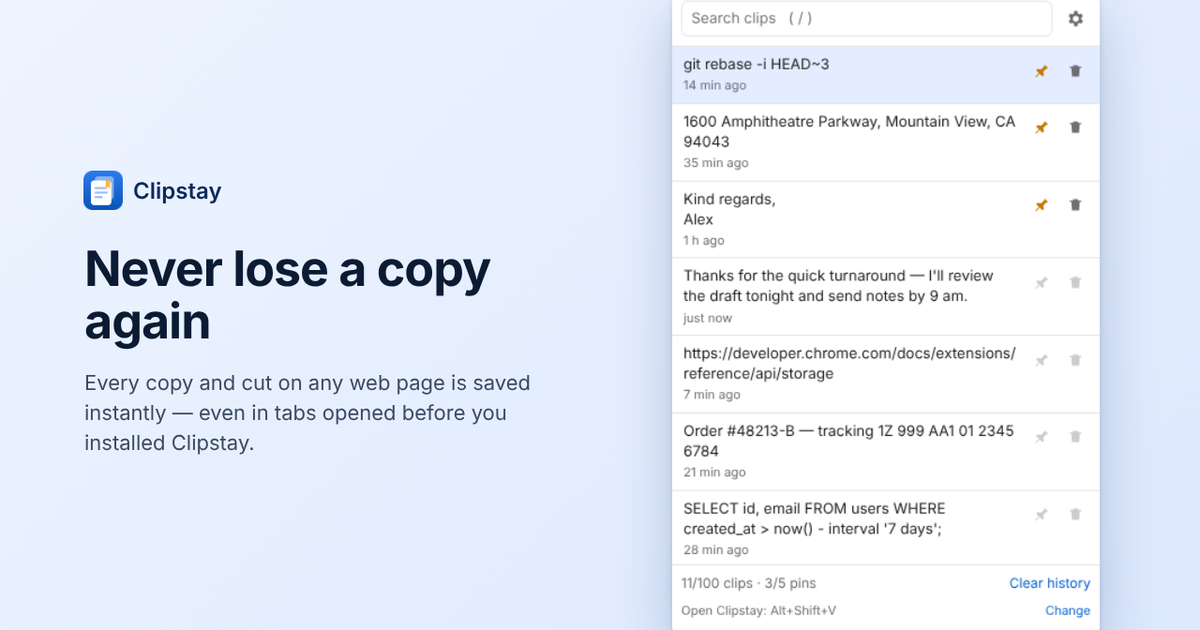
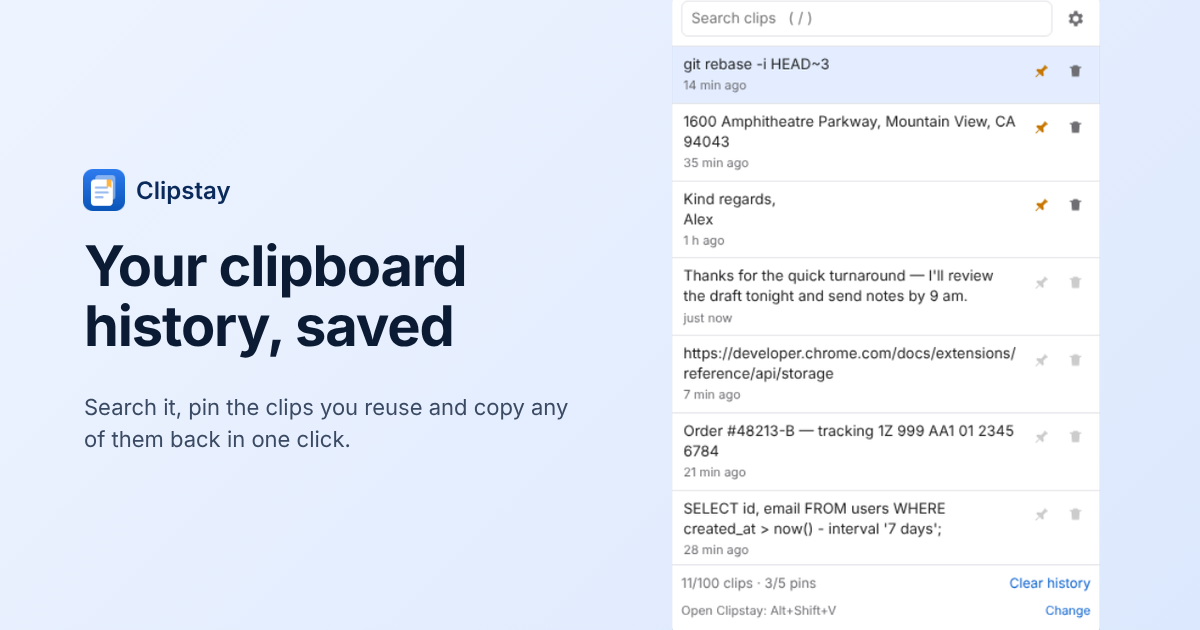
Privacy: license service stores hashed email and payment ID; new OG image without the 'never lose' line
Claude-Session: https://claude.ai/code/session_018GNftAUfD4sbb2kayr8RNQ

diff --git a/content/clipstay-privacy.md b/content/clipstay-privacy.md
@@ -46,7 +46,7 @@ The use of information received by Clipstay adheres to the [Chrome Web Store Use
 - Delete any item, clear your history, or pause capture at any time from the popup or the options page.
 - Turn off adding your clipboard when the popup opens in Settings.
 - Export your full history as JSON or CSV at any time. Export is always free.
-- To have your purchase email removed from the license service, write to the address below.
+- To have your purchase records removed from the license service, write to the address below.
 - Uninstalling Clipstay removes all of its stored data from your browser.
 
 ## Pro purchase and activation
@@ -55,7 +55,7 @@ Clipstay has a free plan and an optional Pro plan, a one-time purchase of $4.99.
 
 - **Payment is handled by [Stripe](https://stripe.com/privacy)**, on a Stripe-hosted page that opens in a new browser tab, outside the extension. Stripe collects your payment details and email address under its own privacy policy. The developer receives your email address and the fact that the payment was made; card details are handled by Stripe and are not seen or stored by the developer. Clipstay itself never sees any payment information.
 - **Activation sends one request.** In Settings you enter the email address you paid with and press Activate. Clipstay then sends **only that email address** to a small license service run by the developer (a Cloudflare Worker), which answers yes or no. If the answer is yes, Pro is switched on locally in your browser. The email address is not saved in the extension.
-- **The purchase email is stored by the developer** (as a record that this email bought Pro) so that activation can work, on Cloudflare's infrastructure. It is used only for that, and removed if the purchase is refunded. Nothing else is stored, and no device identifiers or license keys are used.
+- **What the license service stores.** The developer's license service (a Cloudflare Worker) stores a one-way SHA-256 hash of your normalized purchase email and the Stripe payment ID, so that activation and refunds can work. The email address itself is not stored by the service; it stays with Stripe. Both records are deleted if the purchase is fully refunded. Nothing else is stored, and no device identifiers or license keys are used.
 - **Clipstay checks only when you press Activate**, never in the background and never again afterwards. Your clips, settings and history are never part of this request. The service sees your IP address like any web server and uses it only for brief rate limiting.
 - To use Pro on another computer, enter the same email there.
 - Refund terms are on the [Pro refund policy](/clipstay/refunds/) page.
